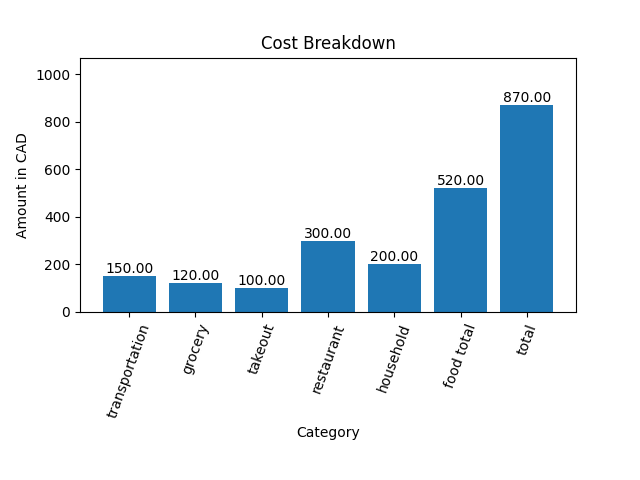
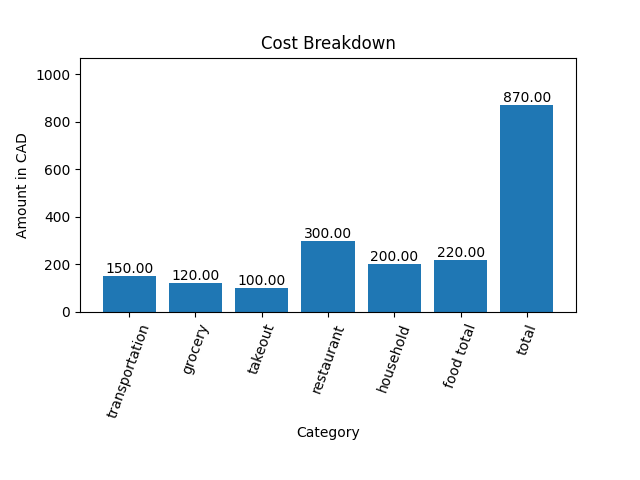
accounted for negative days

Changed region(s): [[0.6562, 0.3438, 0.7812, 0.5625]]

diff --git a/cost_visualizer.py b/cost_visualizer.py
@@ -18,7 +18,7 @@ for key in costDict.keys():
     costDict[key] = sum(costTypePriceList)
     
 grandTotal = sum([value for value in costDict.values()])
-foodTotal = costDict['grocery'] + costDict['takeout'] + costDict['restaurant']
+foodTotal = costDict['grocery'] + costDict['takeout']
 
 costDict['food total'] = foodTotal
 costDict["total"] = grandTotal
@@ -54,7 +54,9 @@ last_year, last_month, last_day = int(last_year), int(last_month), int(last_day)
 first_date = date(first_year, first_month, first_day)
 last_date = date(last_year, last_month, last_day)
 delta = last_date - first_date
-num_of_days = delta.days + 1
+num_of_days = delta.days + 2
+
+num_of_days = delta.days + 1 if num_of_days > 0 else 365.25 + num_of_days
 
 if not os.path.exists("output"):
     os.makedirs("output")
